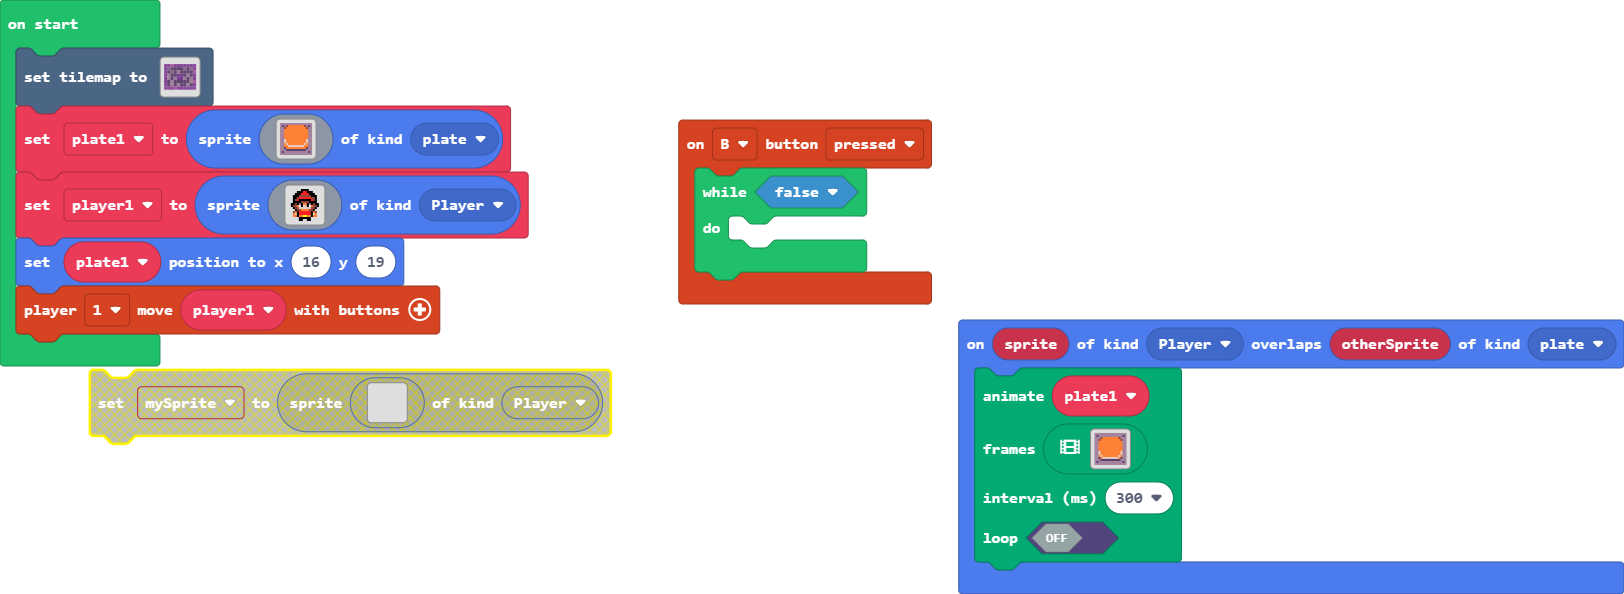
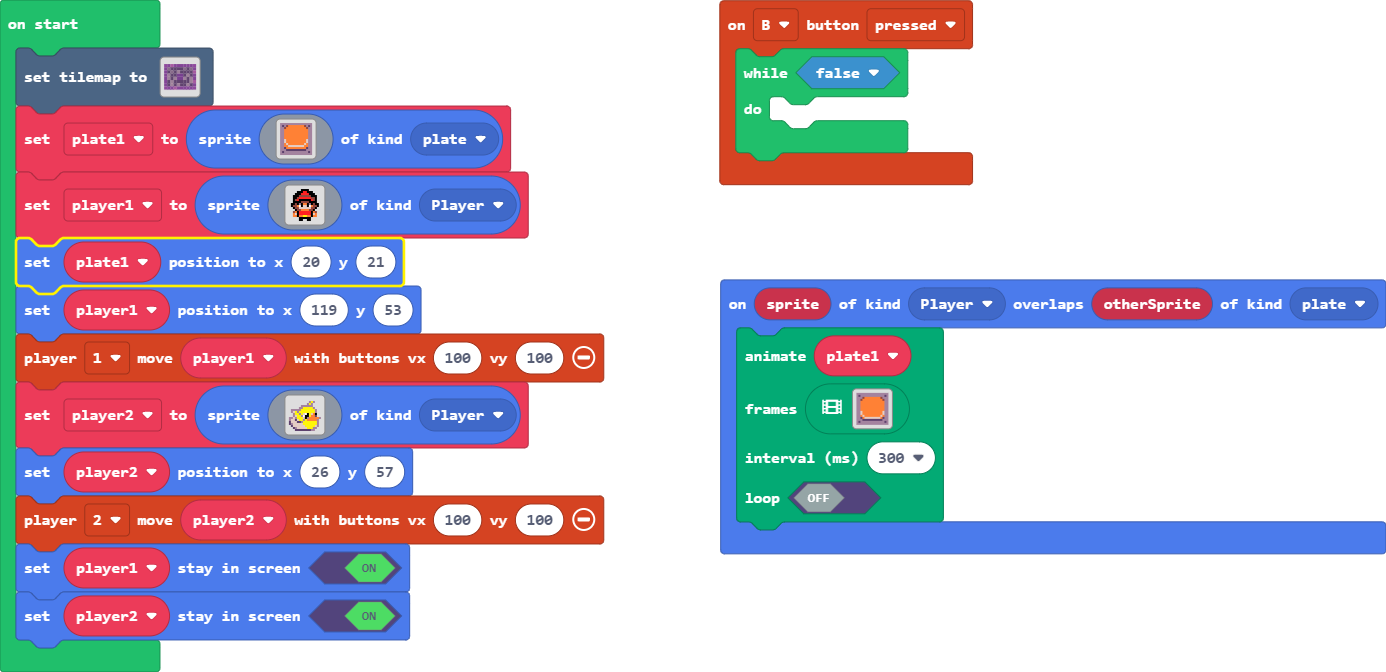
Update main.blocks, main.ts

diff --git a/main.ts b/main.ts
@@ -86,5 +86,28 @@ let player1 = sprites.create(img`
     . . . . . f f f f f f . . . . . 
     . . . . . f f . . f f . . . . . 
     `, SpriteKind.Player)
-plate1.setPosition(16, 19)
-controller.player1.moveSprite(player1)
+plate1.setPosition(20, 21)
+player1.setPosition(119, 53)
+controller.player1.moveSprite(player1, 100, 100)
+let player2 = sprites.create(img`
+    . . . . . . . . . . . . . . . . 
+    . . . . . . . . . . b 5 b . . . 
+    . . . . . . . . . b 5 b . . . . 
+    . . . . . . b b b b b b . . . . 
+    . . . . . b b 5 5 5 5 5 b . . . 
+    . b b b b b 5 5 5 5 5 5 5 b . . 
+    . b d 5 b 5 5 5 5 5 5 5 5 b . . 
+    . . b 5 5 b 5 d 1 f 5 d 4 f . . 
+    . . b d 5 5 b 1 f f 5 4 4 c . . 
+    b b d b 5 5 5 d f b 4 4 4 4 4 b 
+    b d d c d 5 5 b 5 4 4 4 4 4 b . 
+    c d d d c c b 5 5 5 5 5 5 5 b . 
+    c b d d d d d 5 5 5 5 5 5 5 b . 
+    . c d d d d d d 5 5 5 5 5 d b . 
+    . . c b d d d d d 5 5 5 b b . . 
+    . . . c c c c c c c c b b . . . 
+    `, SpriteKind.Player)
+player2.setPosition(26, 57)
+controller.player2.moveSprite(player2, 100, 100)
+player1.setStayInScreen(true)
+player2.setStayInScreen(true)
